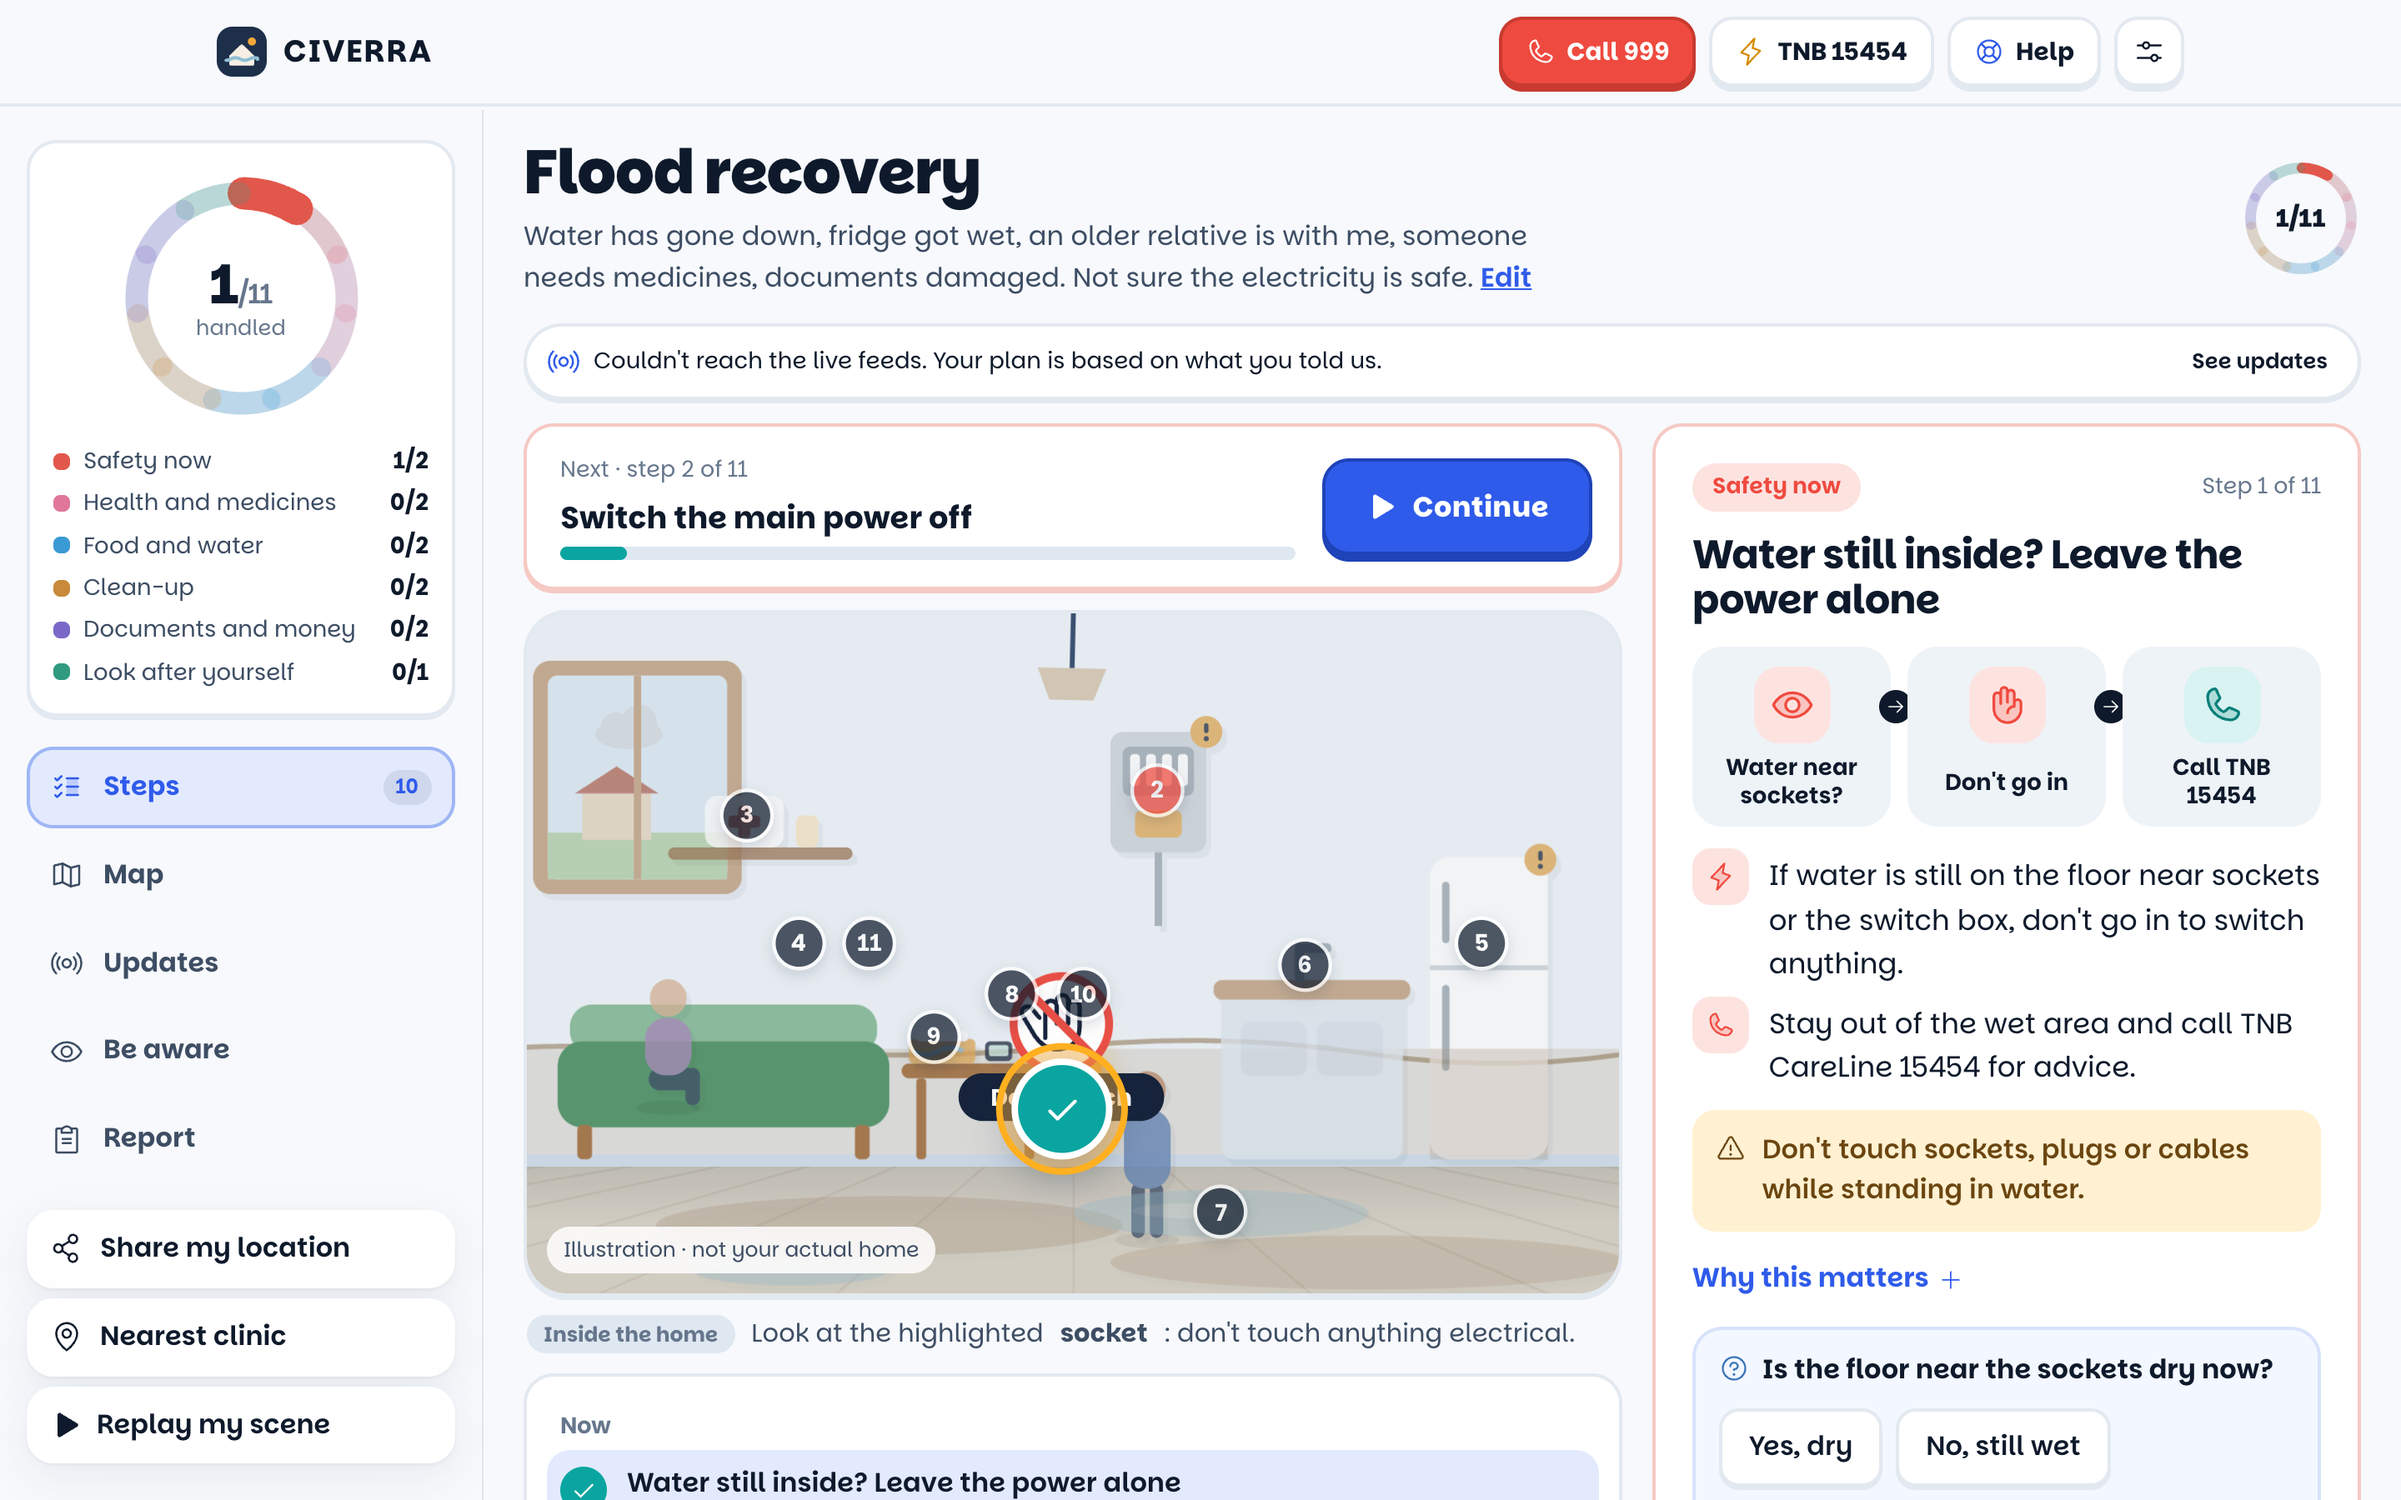
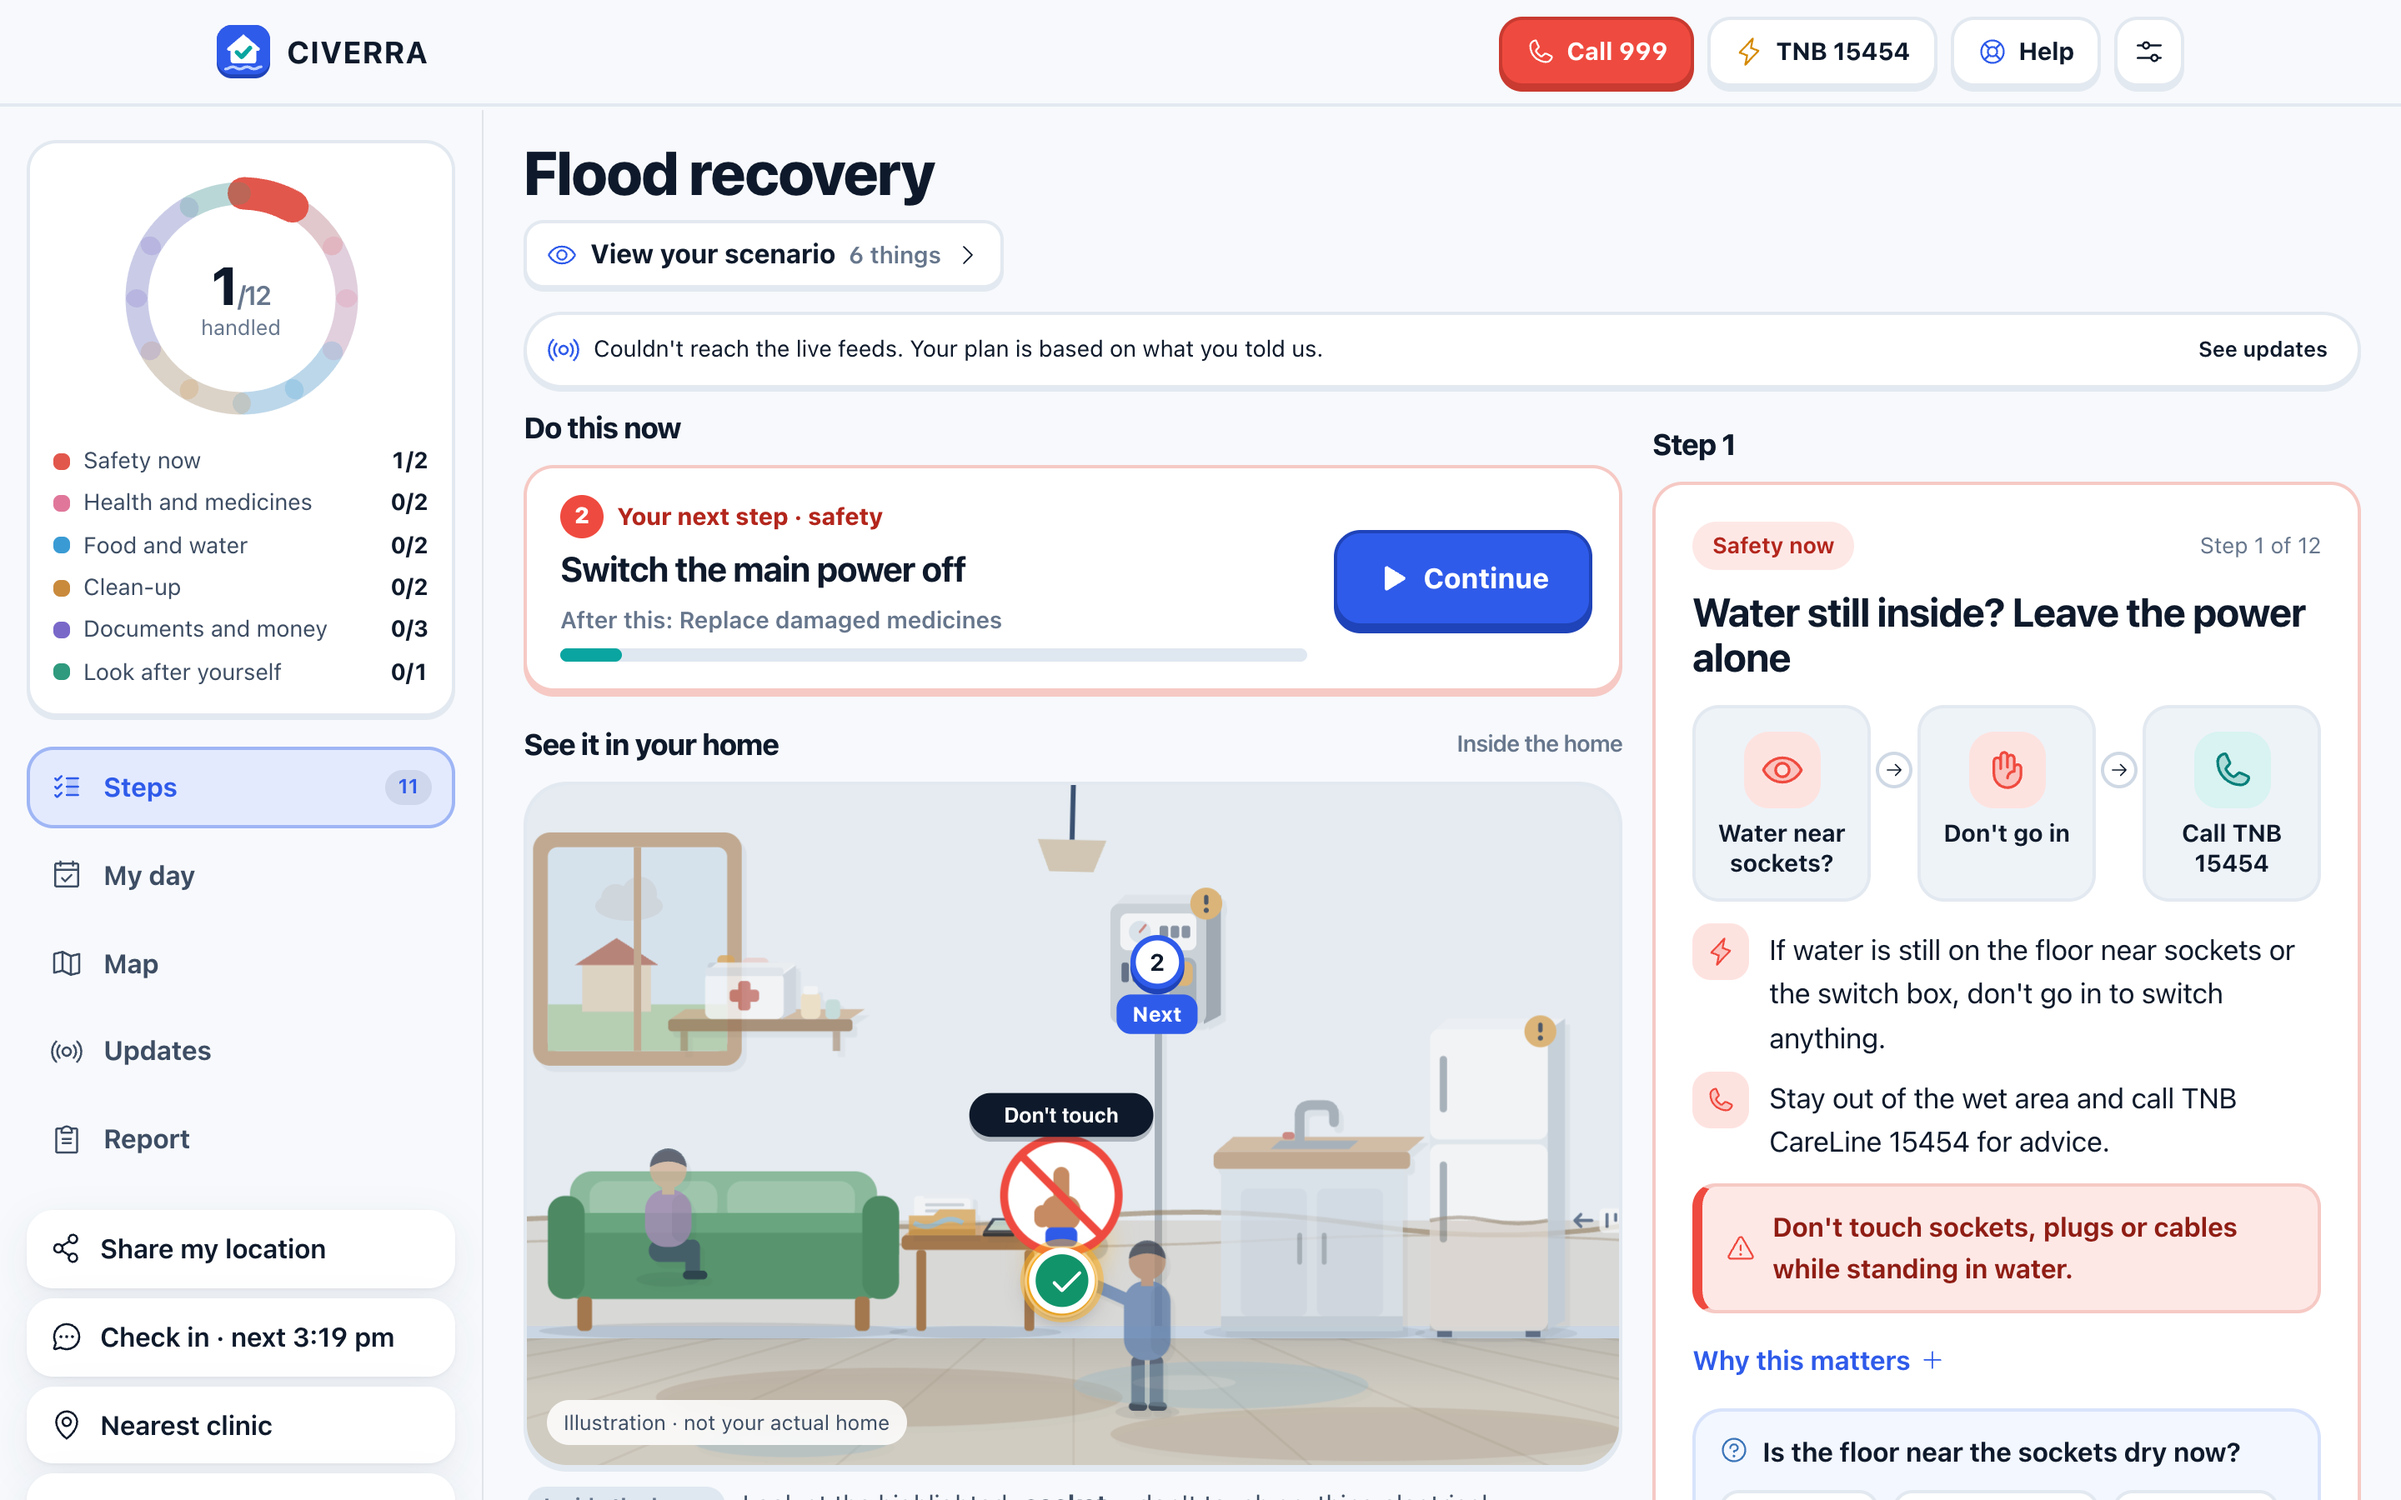
Refresh screenshots and add the 15 Nov afternoon features

diff --git a/README.md b/README.md
@@ -33,3 +33,18 @@ CIVERRA is a post-disaster recovery guide for Malaysian households. You tell it 
 No accounts and no server storage. ID and phone numbers are stripped. Danger always goes to 999 first. Pictures are illustrations, not your home. CIVERRA does not replace emergency services, doctors, electricians or engineers, and doesn't decide aid.
 
 Screenshots were taken from the live site with headless Chrome. MIT licence for this showcase.
+
+## Added on 15 Nov 2026 (afternoon)
+
+Check-ins that run by themselves, opt-in live location, a list seeded from your situation, a one-time set-up, recovery after an online scam (997, Cyber999, Semak Mule), and a simpler steps page.
+
+| My day | Check-in | Live location | My list |
+|---|---|---|---|
+| ![](screens/15-myday.png) | ![](screens/24-phone-checkin-chat.png) | ![](screens/location.png) | ![](screens/todo.png) |
+
+| Steps on a phone | Map on a phone |
+|---|---|
+| ![](screens/25-phone-steps.png) | ![](screens/26-phone-map.png) |
+
+Status, honestly: the server-side AI reader is not deployed (the app reads messages on the device), translated step cards are not done (official MET warnings can be read in the issuer's own Bahasa Melayu), and it has not been tested with real users yet.
+
